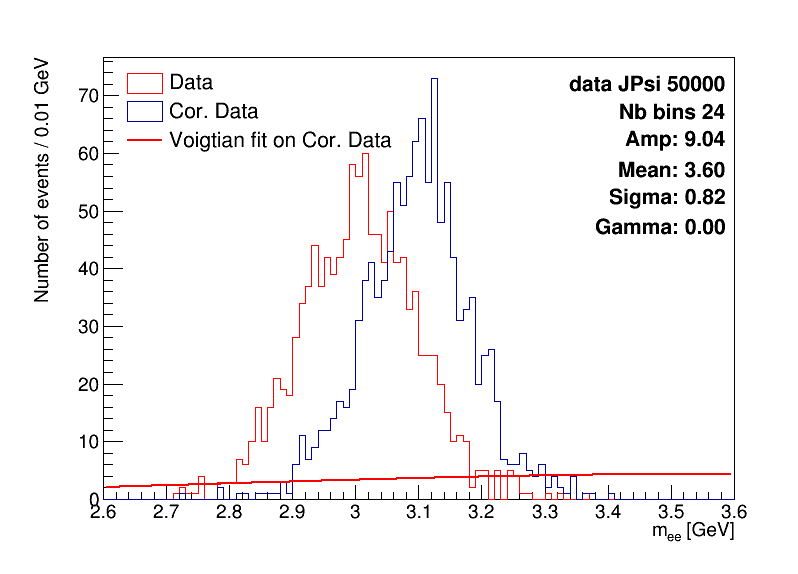
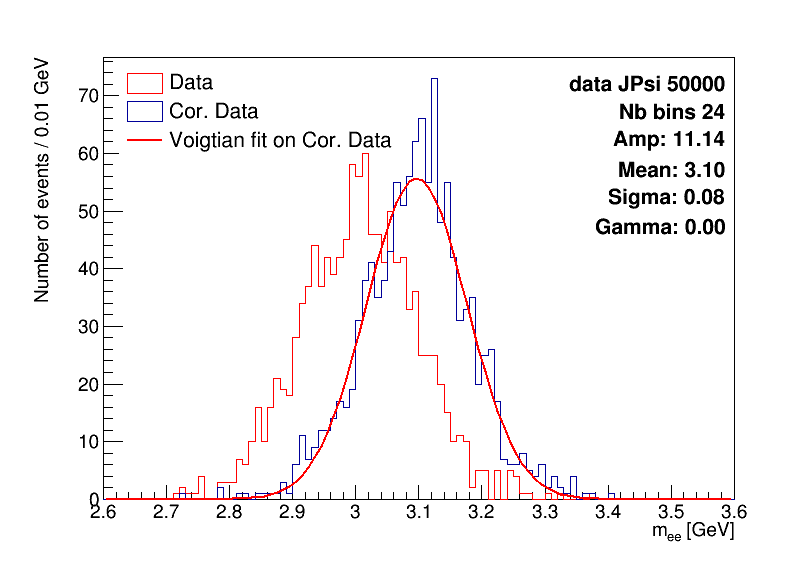
J/psi runs

diff --git a/Analysis/BetaAlpha_method/fudge.C b/Analysis/BetaAlpha_method/fudge.C
@@ -195,14 +195,12 @@ void fudge(string& categ, string& nbEvents, int binning)
     myVoigt->SetParName(3, "Gamma");
     if (categ == "JPsi") {
         myVoigt->SetParameter(0, 12);
-        myVoigt->FixParameter(1, 3.1);
-
-            cout << "coucou" << endl;
+        myVoigt->SetParameter(1, 3);
         myVoigt->SetParameter(2, 1);
         myVoigt->FixParameter(3, 0); // Fit with a gaussian for J/Psi, not a GBW
 
         myVoigt->SetParLimits(1, 2.6, 3.6);
-//        myVoigt->SetParLimits(2, 0, 5);
+        myVoigt->SetParLimits(2, 0, 0.15);
     }
     else { // Z
         myVoigt->SetParameter(0, 5000);
